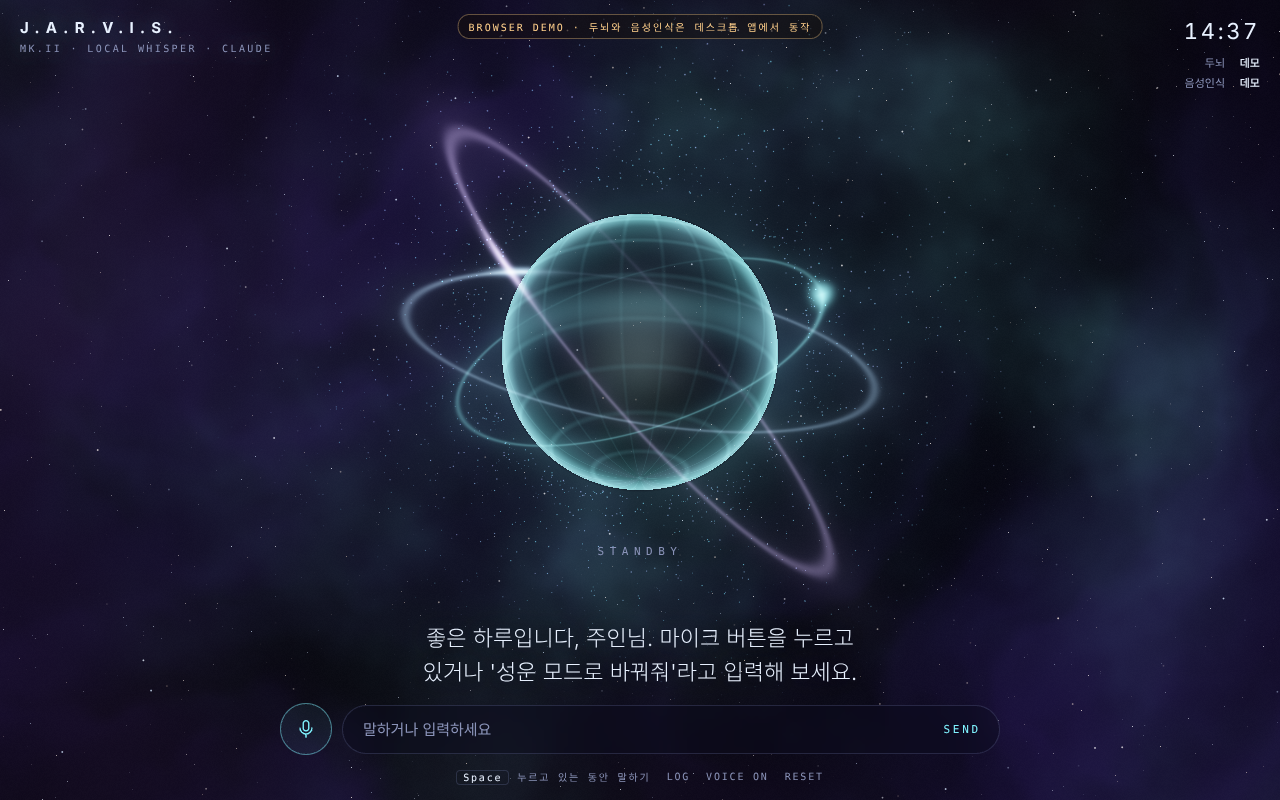
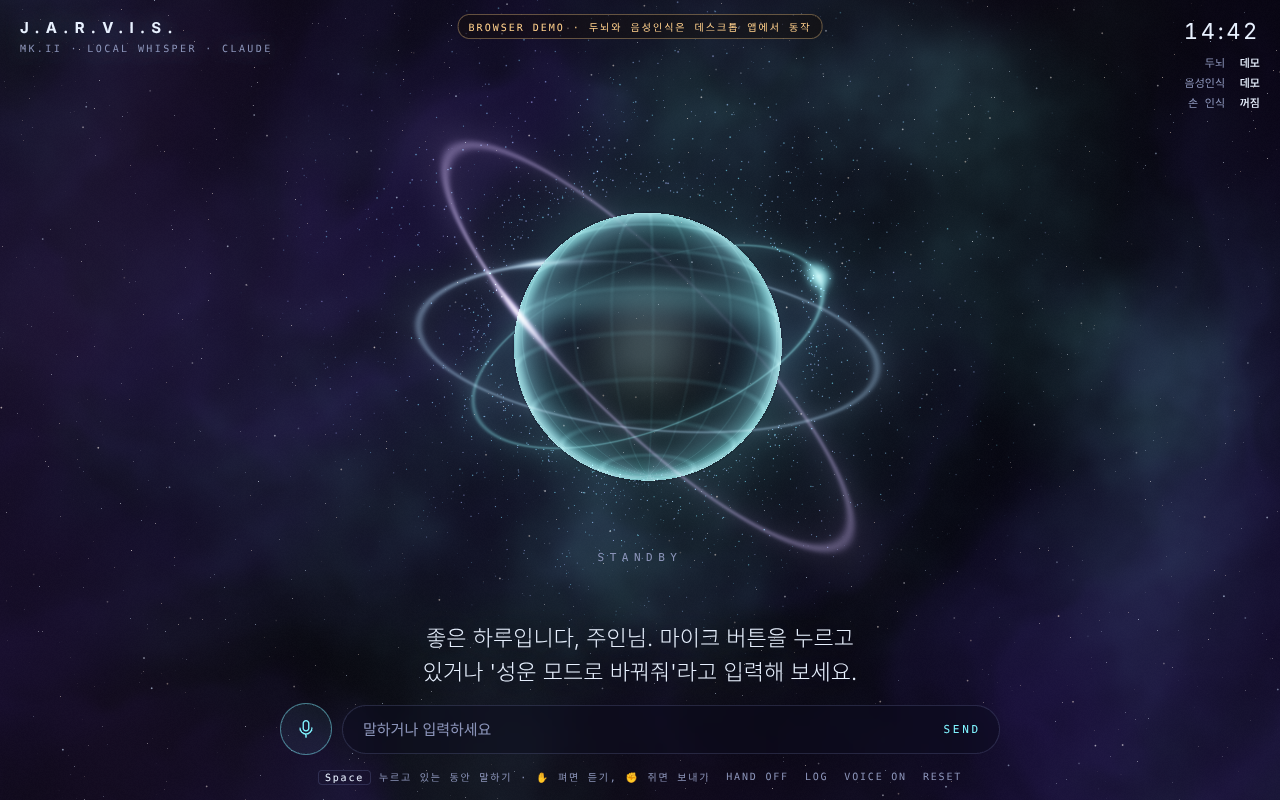
홀로그램 마우스 시차 + 손 제스처로 음성 인식 전환
- uLook 유니폼: 구체·궤도 링·입자 원반·별 층을 서로 다른 양으로 기울여 깊이감
- MediaPipe Hand Landmarker: 손바닥 펴기=듣기 시작, 주먹=보내기 (0.38초 유지 확정)
- 손이 보이면 손 방향이 마우스보다 우선, 카메라 미리보기에 관절 표시
- 듣기 출처(key/pointer/hand) 구분으로 서로 끊지 않게
- macOS 마이크·카메라 권한 문구 (Info.plist)

Claude-Session: https://claude.ai/code/session_01YJc2STC346K9oP1cChroiq

diff --git a/ui/index.html b/ui/index.html
@@ -86,6 +86,11 @@ body{background:var(--void);color:var(--ink);font-family:var(--f-body);font-size
 .hint kbd{font-family:inherit;border:1px solid var(--faint);padding:1px 6px;border-radius:4px;color:var(--ink)}
 .hint button{background:none;border:0;color:var(--dim);font:inherit;letter-spacing:inherit;cursor:pointer;padding:0}
 .hint button:hover{color:var(--ink)}
+.cam{position:absolute;left:0;bottom:0;display:flex;flex-direction:column;gap:6px;align-items:flex-start;animation:rise .7s var(--ease) both}
+.cam[hidden]{display:none}
+.cam canvas{width:176px;height:132px;border-radius:14px;border:1px solid var(--faint);background:rgba(8,8,24,.6);display:block}
+.cam .g{font-family:var(--f-mono);font-size:11px;letter-spacing:.14em;color:var(--dim);transition:color .4s var(--ease)}
+.cam .g.hot{color:var(--holo)}
 .demo{position:fixed;left:50%;top:calc(14px + env(safe-area-inset-top,0px));transform:translateX(-50%);font-family:var(--f-mono);font-size:10px;letter-spacing:.2em;color:var(--warm);
   border:1px solid rgba(255,207,138,.35);padding:4px 10px;border-radius:12px;background:rgba(20,12,4,.4);pointer-events:none;white-space:nowrap}
 button:focus-visible,input:focus-visible{outline:2px solid var(--holo);outline-offset:3px}
@@ -109,6 +114,7 @@ button:focus-visible,input:focus-visible{outline:2px solid var(--holo);outline-o
 </head>
 <body>
 <canvas id="sky" aria-hidden="true"></canvas>
+<video id="camVideo" playsinline muted hidden></video>
 
 <div class="hud">
   <div class="row">
@@ -117,6 +123,7 @@ button:focus-visible,input:focus-visible{outline:2px solid var(--holo);outline-o
       <div class="clock" id="clock">00:00</div>
       <span>두뇌</span><b id="stBrain">확인 중</b>
       <span>음성인식</span><b id="stEar">확인 중</b>
+      <span>손 인식</span><b id="stHand">꺼짐</b>
     </div>
   </div>
 
@@ -124,6 +131,10 @@ button:focus-visible,input:focus-visible{outline:2px solid var(--holo);outline-o
     <div class="log" id="log" aria-live="polite"></div>
     <div class="timers" id="timers"></div>
     <div class="state" id="state" data-m="idle">STANDBY</div>
+    <div class="cam" id="cam" hidden>
+      <canvas id="camView" width="352" height="264" aria-label="손 인식 카메라 미리보기"></canvas>
+      <div class="g" id="gesture">손을 보여주세요</div>
+    </div>
   </div>
 
   <div class="bottom">
@@ -141,7 +152,8 @@ button:focus-visible,input:focus-visible{outline:2px solid var(--holo);outline-o
       </div>
     </form>
     <div class="hint">
-      <span><kbd>Space</kbd> 누르고 있는 동안 말하기</span>
+      <span><kbd>Space</kbd> 누르고 있는 동안 말하기 · ✋ 펴면 듣기, ✊ 쥐면 보내기</span>
+      <button type="button" id="handBtn">HAND OFF</button>
       <button type="button" id="logBtn">LOG</button>
       <button type="button" id="voiceBtn">VOICE ON</button>
       <button type="button" id="resetBtn">RESET</button>
@@ -308,18 +320,19 @@ $("form").addEventListener("submit", (e) => { e.preventDefault(); const b = $("b
 // ======================================================================
 //  누르고 말하기 (Space 또는 마이크 버튼)
 // ======================================================================
-let holding = false;
-async function pttDown(){
+let holding = false, holdSource = null;   // 누가 듣기를 시작했나: key | pointer | hand
+async function pttDown(src = "key"){
   if (holding || busy) return;
-  holding = true; synth?.cancel();
+  holding = true; holdSource = src; synth?.cancel();
   $("mic").setAttribute("aria-pressed","true");
   setMode("listening"); $("heard").textContent = "듣고 있습니다…";
   try{ await api.startListening(); }
   catch(e){ holding = false; $("mic").setAttribute("aria-pressed","false"); setMode("idle"); $("heard").textContent = ""; showReply(String(e), true); }
 }
-async function pttUp(){
+async function pttUp(src){
   if (!holding) return;
-  holding = false; $("mic").setAttribute("aria-pressed","false");
+  if (src && holdSource && src !== holdSource) return;   // 손으로 시작한 녹음을 Space 떼기가 끊지 않게
+  holding = false; holdSource = null; $("mic").setAttribute("aria-pressed","false");
   setMode("thinking"); $("heard").textContent = "받아적는 중…";
   let text = "";
   try{ text = await api.stopListening(); }
@@ -328,15 +341,169 @@ async function pttUp(){
   ask(text);
 }
 const mic = $("mic");
-mic.addEventListener("pointerdown", (e) => { e.preventDefault(); mic.setPointerCapture?.(e.pointerId); pttDown(); });
-mic.addEventListener("pointerup", pttUp);
-mic.addEventListener("pointercancel", pttUp);
+mic.addEventListener("pointerdown", (e) => { e.preventDefault(); mic.setPointerCapture?.(e.pointerId); pttDown("pointer"); });
+mic.addEventListener("pointerup", () => pttUp("pointer"));
+mic.addEventListener("pointercancel", () => pttUp("pointer"));
 addEventListener("keydown", (e) => {
   if (e.code !== "Space" || e.repeat || e.target === $("box")) return;
-  e.preventDefault(); pttDown();
+  e.preventDefault(); pttDown("key");
 });
-addEventListener("keyup", (e) => { if (e.code === "Space" && e.target !== $("box")) { e.preventDefault(); pttUp(); } });
-addEventListener("blur", pttUp);
+addEventListener("keyup", (e) => { if (e.code === "Space" && e.target !== $("box")) { e.preventDefault(); pttUp("key"); } });
+addEventListener("blur", () => pttUp("key"));
+
+// ======================================================================
+//  시선(마우스/손) → 홀로그램 시차
+// ======================================================================
+const look = { x: 0, y: 0, tx: 0, ty: 0 };      // -1..1, 위쪽이 +y
+let handLook = null;                           // 손이 보이면 손 위치가 마우스보다 우선
+addEventListener("pointermove", (e) => {
+  look.tx = (e.clientX / innerWidth) * 2 - 1;
+  look.ty = -((e.clientY / innerHeight) * 2 - 1);
+}, { passive: true });
+document.addEventListener("pointerleave", () => { look.tx = 0; look.ty = 0; });
+
+// ======================================================================
+//  손 제스처 (MediaPipe Hand Landmarker)
+//    ✋ 손바닥 펴기를 잠깐 유지 → 듣기 시작
+//    ✊ 주먹 쥐기               → 듣기 끝, 받아적어 보내기
+// ======================================================================
+const GESTURE = { start: "open", stop: "fist", holdMs: 380, lostMs: 2200 };
+const VISION_VER = "0.10.14";
+const VISION = {
+  // ui/vendor에 받아두면 인터넷 없이도 동작 (README 참고). 없으면 CDN 사용.
+  bundle: [`./vendor/tasks-vision/vision_bundle.mjs`, `https://cdn.jsdelivr.net/npm/@mediapipe/tasks-vision@${VISION_VER}/vision_bundle.mjs`],
+  wasm:   [`./vendor/tasks-vision/wasm`, `https://cdn.jsdelivr.net/npm/@mediapipe/tasks-vision@${VISION_VER}/wasm`],
+  model:  [`./vendor/hand_landmarker.task`, `https://storage.googleapis.com/mediapipe-models/hand_landmarker/hand_landmarker/float16/1/hand_landmarker.task`],
+};
+const GESTURE_LABEL = { open:"✋ 펼침 · 듣기", fist:"✊ 주먹 · 보내기", other:"손 인식 중", none:"손을 보여주세요" };
+
+const hand = { on:false, stream:null, landmarker:null, lastTs:-1, raw:"none", rawSince:0, stable:"none", lostAt:0, lm:null };
+const camVideo = $("camVideo"), camView = $("camView"), camCtx = camView.getContext("2d");
+
+async function firstAvailable(urls, kind){
+  for (const u of urls){
+    if (/^https?:/.test(u)) return u;
+    try {
+      const ctl = new AbortController();
+      const r = await fetch(kind === "dir" ? u + "/vision_wasm_internal.js" : u, { signal: ctl.signal });
+      ctl.abort();                                   // 헤더만 확인하고 본문은 받지 않는다
+      if (r.ok) return u;
+    } catch {}
+  }
+  return urls[urls.length - 1];
+}
+
+async function startHand(){
+  if (hand.on) return;
+  $("stHand").textContent = "카메라 켜는 중"; $("stHand").classList.remove("bad");
+  try{
+    hand.stream = await navigator.mediaDevices.getUserMedia({ video:{ width:640, height:480, facingMode:"user" }, audio:false });
+  }catch(e){
+    $("stHand").textContent = e?.name === "NotAllowedError" ? "카메라 거부됨" : "카메라 없음"; $("stHand").classList.add("bad");
+    showReply(e?.name === "NotAllowedError" ? "카메라 권한이 거부되었습니다. 설정에서 허용해 주세요." : "카메라를 찾을 수 없습니다.", true);
+    return;
+  }
+  camVideo.srcObject = hand.stream; await camVideo.play().catch(()=>{});
+  hand.on = true; $("cam").hidden = false; syncHandBtn();
+  try{
+    if (!hand.landmarker){
+      $("stHand").textContent = "모델 불러오는 중";
+      const vision = await import(await firstAvailable(VISION.bundle, "file"));
+      const files = await vision.FilesetResolver.forVisionTasks(await firstAvailable(VISION.wasm, "dir"));
+      hand.landmarker = await vision.HandLandmarker.createFromOptions(files, {
+        baseOptions: { modelAssetPath: await firstAvailable(VISION.model, "file"), delegate: "GPU" },
+        runningMode: "VIDEO", numHands: 1,
+        minHandDetectionConfidence: 0.6, minHandPresenceConfidence: 0.6, minTrackingConfidence: 0.5,
+      });
+    }
+    $("stHand").textContent = "켜짐";
+  }catch(e){
+    console.error(e);
+    $("stHand").textContent = "모델 실패"; $("stHand").classList.add("bad");
+    showReply("손 인식 모델을 불러오지 못했습니다. 인터넷 연결이나 ui/vendor 파일을 확인해 주세요.", true);
+    stopHand(); return;
+  }
+  try { localStorage.setItem("jarvis.hand", "on"); } catch {}
+}
+function stopHand(){
+  hand.on = false; hand.stream?.getTracks().forEach(t => t.stop()); hand.stream = null;
+  camVideo.srcObject = null; $("cam").hidden = true; handLook = null; hand.lm = null;
+  hand.raw = hand.stable = "none";
+  if (holdSource === "hand") pttUp("hand");
+  if (!$("stHand").classList.contains("bad")) $("stHand").textContent = "꺼짐";
+  syncHandBtn();
+  try { localStorage.setItem("jarvis.hand", "off"); } catch {}
+}
+function syncHandBtn(){ $("handBtn").textContent = hand.on ? "HAND ON" : "HAND OFF"; }
+$("handBtn").onclick = () => hand.on ? stopHand() : startHand();
+
+// 손가락 끝이 PIP 관절보다 손목에서 충분히 멀면 '펴짐'
+function classify(lm){
+  const d = (a, b) => Math.hypot(lm[a].x - lm[b].x, lm[a].y - lm[b].y, (lm[a].z - lm[b].z) * 0.6);
+  const palm = d(0, 9) || 1e-3;
+  const ext = [[8,6],[12,10],[16,14],[20,18]].map(([tip, pip]) => d(tip, 0) > d(pip, 0) * 1.15);
+  const n = ext.filter(Boolean).length;
+  const thumbOut = d(4, 5) > palm * 0.5;
+  const curled = [8,12,16,20].every(t => d(t, 0) < palm * 1.25);
+  if (n === 4 && thumbOut) return "open";
+  if (n === 0 && curled) return "fist";
+  return "other";
+}
+
+function handTick(now){
+  if (!hand.on || !hand.landmarker || camVideo.readyState < 2) return;
+  if (now - hand.lastTs < 45) return;            // 약 20fps면 충분
+  hand.lastTs = now;
+  let res;
+  try { res = hand.landmarker.detectForVideo(camVideo, now); } catch { return; }
+  const lm = res?.landmarks?.[0] || null;
+  hand.lm = lm;
+  const g = lm ? classify(lm) : "none";
+  if (g !== hand.raw){ hand.raw = g; hand.rawSince = now; }
+
+  if (lm){
+    hand.lostAt = 0;
+    const c = lm[9];                               // 손바닥 중심 (화면은 거울상)
+    handLook = { x: -(c.x * 2 - 1), y: -(c.y * 2 - 1) };
+  } else {
+    handLook = null;
+    if (!hand.lostAt) hand.lostAt = now;
+    if (holdSource === "hand" && now - hand.lostAt > GESTURE.lostMs) pttUp("hand");   // 손이 사라지면 그대로 보낸다
+  }
+
+  // 같은 모양이 holdMs 동안 유지되어야 확정 (손 떨림·전환 중 오작동 방지)
+  if (hand.raw !== hand.stable && now - hand.rawSince >= GESTURE.holdMs){
+    hand.stable = hand.raw;
+    if (hand.stable === GESTURE.start && !holding && !busy) pttDown("hand");
+    else if (hand.stable === GESTURE.stop && holdSource === "hand") pttUp("hand");
+  }
+  const gl = $("gesture");
+  gl.textContent = holdSource === "hand" ? "듣는 중 · ✊ 쥐면 보내기" : GESTURE_LABEL[hand.stable] || GESTURE_LABEL.other;
+  gl.classList.toggle("hot", holdSource === "hand" || hand.stable === "open");
+  drawCam(lm);
+}
+
+const BONES = [[0,1],[1,2],[2,3],[3,4],[0,5],[5,6],[6,7],[7,8],[5,9],[9,10],[10,11],[11,12],[9,13],[13,14],[14,15],[15,16],[13,17],[17,18],[18,19],[19,20],[0,17]];
+function drawCam(lm){
+  const w = camView.width, h = camView.height;
+  camCtx.save();
+  camCtx.clearRect(0, 0, w, h);
+  camCtx.translate(w, 0); camCtx.scale(-1, 1);       // 거울처럼
+  camCtx.globalAlpha = 0.35; camCtx.drawImage(camVideo, 0, 0, w, h); camCtx.globalAlpha = 1;
+  if (lm){
+    const col = `rgb(${holoRGB.map(v => Math.round(v*255)).join(",")})`;
+    camCtx.strokeStyle = col; camCtx.fillStyle = col; camCtx.lineWidth = 2;
+    camCtx.shadowColor = col; camCtx.shadowBlur = 8;
+    camCtx.beginPath();
+    for (const [a, b] of BONES){ camCtx.moveTo(lm[a].x*w, lm[a].y*h); camCtx.lineTo(lm[b].x*w, lm[b].y*h); }
+    camCtx.stroke();
+    for (const p of lm){ camCtx.beginPath(); camCtx.arc(p.x*w, p.y*h, 3, 0, Math.PI*2); camCtx.fill(); }
+  }
+  camCtx.restore();
+}
+let holoRGB = [0.47, 0.95, 1.0];   // 렌더러가 매 프레임 현재 홀로그램 색으로 갱신
+(function handLoop(now){ handTick(now || 0); requestAnimationFrame(handLoop); })();
+try { if (localStorage.getItem("jarvis.hand") === "on" && isApp) startHand(); } catch {}
 
 // ======================================================================
 //  백엔드 이벤트
@@ -432,6 +599,7 @@ out vec4 o;
 uniform vec2 uRes, uCenter;
 uniform float uTime, uEnergy, uLevel, uSpeak, uRadius;
 uniform vec3 uColA, uColB, uColC;
+uniform vec2 uLook;   // 마우스/손 방향 (-1..1)
 
 float hash(vec2 p){ p = fract(p*vec2(123.34, 456.21)); p += dot(p, p + 45.32); return fract(p.x*p.y); }
 float noise(vec2 p){
@@ -447,7 +615,8 @@ vec3 stars(vec2 uv, float t){
   vec3 c = vec3(0);
   for (int L = 0; L < 3; L++){
     float fl = float(L), s = 38. + fl*52.;
-    vec2 g = uv*s + vec2(fl*17.3 + t*0.006*(fl + 1.)*s, fl*5.1);
+    // 가까운 별 층일수록 시선 반대쪽으로 더 많이 움직여 깊이감이 생긴다
+    vec2 g = (uv - uLook*(.006 + .012*fl))*s + vec2(fl*17.3 + t*0.006*(fl + 1.)*s, fl*5.1);
     vec2 id = floor(g), f = fract(g) - .5;
     float h = hash(id + fl*7.1);
     if (h > .93){
@@ -474,7 +643,7 @@ void main(){
   vec2 bg = uv - lens*uRadius;
 
   // 성운: 도메인 워핑 fbm
-  vec2 q = bg*1.55 + vec2(t*.010, -t*.007);
+  vec2 q = (bg - uLook*.02)*1.55 + vec2(t*.010, -t*.007);
   float w1 = fbm(q + 1.5*fbm(q*1.3 + vec2(t*.018, 0.)));
   float w2 = fbm(q*2.2 - vec2(t*.013, -t*.004) + 3.7);
   float w3 = fbm(q*.6 + 11.);
@@ -493,9 +662,9 @@ void main(){
   if (r < 1.){
     float z = sqrt(1. - r*r);
     vec3 n = vec3(p, z);
-    float tl = .42, ct = cos(tl), st = sin(tl);
+    float tl = .42 - uLook.y*.3, ct = cos(tl), st = sin(tl);
     n = vec3(n.x, ct*n.y - st*n.z, st*n.y + ct*n.z);
-    float sp = t*.16*(.55 + uEnergy);
+    float sp = t*.16*(.55 + uEnergy) - uLook.x*.45;
     float cy = cos(sp), sy = sin(sp);
     n = vec3(cy*n.x + sy*n.z, n.y, -sy*n.x + cy*n.z);
     float lat = asin(clamp(n.y, -1., 1.));
@@ -518,8 +687,8 @@ void main(){
   for (int i = 0; i < 3; i++){
     float fi = float(i);
     float R = 1.38 + fi*.34;
-    float inc = 1.16 + fi*.11;
-    float phi = .32 - fi*.58 + sin(t*.045 + fi*1.7)*.09;
+    float inc = 1.16 + fi*.11 - uLook.y*(.10 + .04*fi);
+    float phi = .32 - fi*.58 + sin(t*.045 + fi*1.7)*.09 + uLook.x*(.10 + .03*fi);
     float c = cos(phi), s = sin(phi);
     vec2 qq = vec2(c*p.x + s*p.y, -s*p.x + c*p.y);
     float ci = cos(inc);
@@ -549,15 +718,16 @@ const P_VS = `#version 300 es
 in vec4 aP;  // 반지름, 시작 각도, 높이, 시드
 uniform vec2 uRes, uCenter;
 uniform float uTime, uEnergy, uLevel, uRadius, uDpr;
+uniform vec2 uLook;
 out float vA; out float vMix;
 void main(){
   float rr = aP.x;
   float a = aP.y + uTime*(.85/pow(rr, 1.5))*(.3 + .9*uEnergy);
   float br = 1. + .035*sin(uTime*.7 + aP.w*6.283) + uLevel*.10*aP.w;
   vec3 pos = vec3(cos(a)*rr*br, aP.z, sin(a)*rr*br);
-  float tl = 1.22, c = cos(tl), s = sin(tl);
+  float tl = 1.22 - uLook.y*.22, c = cos(tl), s = sin(tl);
   pos = vec3(pos.x, c*pos.y - s*pos.z, s*pos.y + c*pos.z);
-  float ph = -.22, cp = cos(ph), sp = sin(ph);
+  float ph = -.22 + uLook.x*.14, cp = cos(ph), sp = sin(ph);
   pos.xy = vec2(cp*pos.x - sp*pos.y, sp*pos.x + cp*pos.y);
   float persp = 1./(1. + pos.z*.16);
   vec2 scr = uCenter + pos.xy*persp*uRadius*uRes.y;
@@ -644,9 +814,17 @@ function frame(now){
   const pal = PALETTES[mood];
   for (let k = 0; k < 3; k++){ S.A[k] = ease(S.A[k], pal[0][k], 1.4, dt); S.B[k] = ease(S.B[k], pal[1][k], 1.1, dt); S.C[k] = ease(S.C[k], pal[2][k], 1.2, dt); }
 
+  holoRGB = S.A;
+
+  // 시선: 손이 보이면 손, 아니면 마우스. 느린 지수 감쇠라 따라오되 미끄러지듯 움직인다
+  const src = handLook || { x: look.tx, y: look.ty };
+  const lookGain = reduce ? .35 : 1;
+  look.x = ease(look.x, Math.max(-1, Math.min(1, src.x))*lookGain, 2.4, dt);
+  look.y = ease(look.y, Math.max(-1, Math.min(1, src.y))*lookGain, 2.4, dt);
+
   const narrow = W/H < 1;
   S.radius = ease(S.radius, narrow ? .12 : .165, 3, dt);
-  const cx = W*.5, cy = H*(narrow ? .58 : .56);
+  const cx = W*.5 + look.x*W*.012, cy = H*(narrow ? .58 : .56) + look.y*H*.014;
   document.documentElement.style.setProperty("--orb-px", Math.round(S.radius*H/dpr) + "px");
 
   gl.disable(gl.BLEND);
@@ -656,6 +834,7 @@ function frame(now){
   gl.uniform1f(su.uTime, clock); gl.uniform1f(su.uEnergy, S.energy); gl.uniform1f(su.uLevel, S.level);
   gl.uniform1f(su.uSpeak, S.speak); gl.uniform1f(su.uRadius, S.radius);
   gl.uniform3fv(su.uColA, S.A); gl.uniform3fv(su.uColB, S.B); gl.uniform3fv(su.uColC, S.C);
+  gl.uniform2f(su.uLook, look.x, look.y);
   gl.drawArrays(gl.TRIANGLES, 0, 3);
 
   gl.enable(gl.BLEND); gl.blendFunc(gl.ONE, gl.ONE);
@@ -665,6 +844,7 @@ function frame(now){
   gl.uniform1f(pu.uTime, clock); gl.uniform1f(pu.uEnergy, S.energy); gl.uniform1f(pu.uLevel, S.level);
   gl.uniform1f(pu.uRadius, S.radius); gl.uniform1f(pu.uDpr, dpr);
   gl.uniform3fv(pu.uColA, S.A); gl.uniform3fv(pu.uColC, S.C);
+  gl.uniform2f(pu.uLook, look.x, look.y);
   gl.drawArrays(gl.POINTS, 0, N);
 
   requestAnimationFrame(frame);

diff --git a/README.md b/README.md
@@ -80,7 +80,28 @@ cargo tauri dev --features cuda    # NVIDIA GPU로 Whisper 가속
 
 - **Space를 누르고 있는 동안 말하기**, 떼면 받아적고 대답
 - 마이크 버튼을 길게 눌러도 됨
+- **손 제스처** (하단 `HAND` 버튼으로 카메라 켜기)
+  - ✋ 손바닥을 펴고 0.4초 유지 → 듣기 시작
+  - ✊ 주먹 쥐기 → 듣기 끝, 받아적어서 보내기
+  - 듣는 중에 손이 2초 넘게 화면에서 사라지면 그대로 보냄
+- 홀로그램은 마우스 방향으로, 카메라가 켜져 있으면 손 방향으로 살짝 기울어짐
 - 예: "크롬 열어줘", "유튜브에서 로파이 찾아줘", "라면 타이머 3분", "성운 모드로 바꿔줘", "볼륨 30으로"
+
+### 손 인식 오프라인으로 쓰기 (선택)
+
+손 인식은 [MediaPipe Hand Landmarker](https://ai.google.dev/edge/mediapipe/solutions/vision/hand_landmarker)를 웹뷰에서 돌립니다.
+카메라 영상은 기기 안에서만 처리되고, 기본으로는 라이브러리와 모델(약 7.5MB)을 처음에 인터넷에서 받아옵니다.
+인터넷 없이 쓰려면 아래 파일을 `ui/vendor/`에 넣어두면 자동으로 그쪽을 먼저 씁니다.
+
+```
+ui/vendor/hand_landmarker.task           ← storage.googleapis.com/mediapipe-models/hand_landmarker/hand_landmarker/float16/1/hand_landmarker.task
+ui/vendor/tasks-vision/vision_bundle.mjs ← npm 패키지 @mediapipe/tasks-vision@0.10.14
+ui/vendor/tasks-vision/wasm/             ← 같은 패키지의 wasm 폴더
+```
+
+제스처 판정 방식: 21개 손 관절 중 각 손가락 끝이 손목에서 두 번째 마디(PIP)보다 1.15배 이상 멀면 '펴짐'으로 봅니다.
+네 손가락과 엄지가 모두 펴지면 ✋, 모두 손바닥 쪽으로 말리면 ✊이고, 같은 모양이 0.38초 유지되어야 확정해서 손 떨림으로 오작동하지 않게 했습니다.
+기준값은 `ui/index.html`의 `GESTURE`와 `classify()`에서 바꿀 수 있습니다.
 
 홀로그램만 보고 싶으면 `ui/index.html`을 브라우저로 열면 데모 모드로 돌아갑니다.
 
